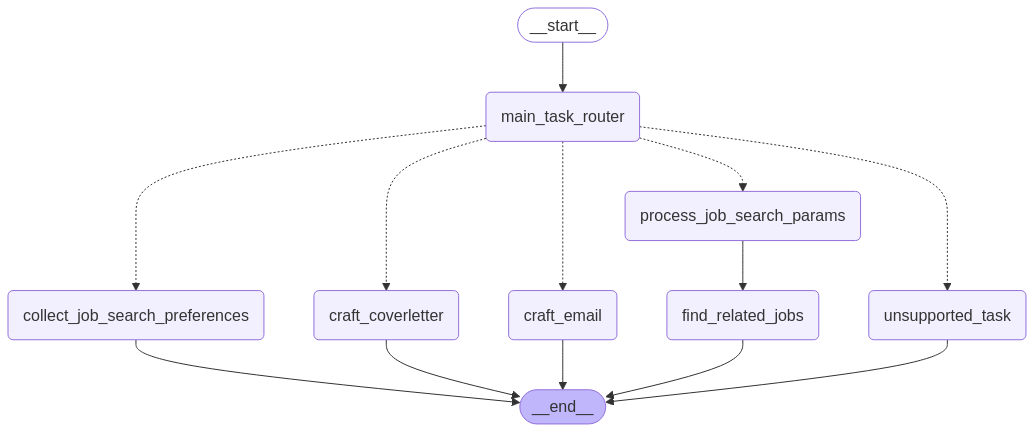
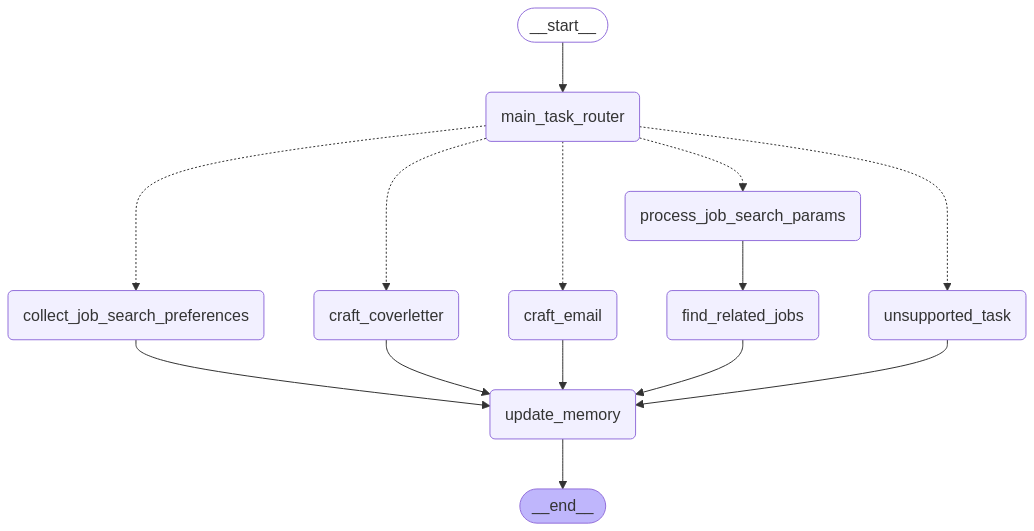
Add clean-up for PR

diff --git a/huntmate_core.py b/huntmate_core.py
@@ -21,12 +21,12 @@ from models import JobMatch, Route, State, JobSearchParams, JobUserMention
 # TODO: make suggestions on how to improve the resume based on the job description
 # TODO: if the llm model is not correct prompt the user to provide the correct model name
 # TODO: is there a way around this pydantic/json formatting for open-source llms? 
-# TODO: Add logo and improve the UI
-# TODO: find a way around project setup for users with no experience in python
+# TODO: find a way around project setup for users with no experience in python > Docker maybe? 
 # TODO: Add new chat button to reset the memory
-# TODO: Add prompts for craft email, cover letter.. 
+# TODO: Add prompts for craft email. 
 # TODO: improve the memory from csv file to a better solution
-
+# TODO: change unsupported task to a more user-friendly message or just let openai handle it?
+# TODO: you can have a place that the user can upload their resume!
 
 
 # The main class for the HuntMate application
@@ -135,23 +135,19 @@ class HuntMate:
         else:
             try: 
                 job_id = result.description.split("https://www.linkedin.com/jobs/view/")[1].split(")")[0]
-                result = self.linkedin_tool.get_job_info(job_id)
-                if result :
-                    return result
+                complete_info = self.linkedin_tool.get_job_info(job_id)
+                if complete_info:
+                    return complete_info
                 else: 
-                    return state["user_input"]
+                    return result.description
             except:
                 return state["user_input"]
 
         
     def craft_coverletter(self, state: State) -> dict:
         """Generate a cover letter based on user input and memory"""
-        # TODO: connect to the find exact job function and give the job info here!
         job_description = self.find_exact_job(state)
         memory_personal = self.load_personal_memory(state)
-        print(">>>>>>>>>>>>>>>")
-        print(job_description)
-        print(">>>>>>>>>>>>>>>")
         response = completion(
             model=self.model_name,
             messages=craft_coverletter_prompt(state["user_input"], memory_personal, job_description),
@@ -208,7 +204,7 @@ class HuntMate:
         print(type(state["job_search_params"]))
         while counter < state["job_search_params"].limit + 1 and  i < len(found_jobs): 
             print("Processing job: ", i)
-            messages = [check_job_match(state["job_search_params"], job["title"], job["company"], job["location"], job["job_description"], self.load_personal_memory(state)) for job in found_jobs[i:i+batch_size]]
+            messages = [check_job_match(state["job_search_params"], job["title"], job["company"], job["job_description"], self.load_personal_memory(state)) for job in found_jobs[i:i+batch_size]]
             responses = batch_completion(
                 model= self.model_name,
                 messages=messages,
@@ -242,9 +238,7 @@ class HuntMate:
     
     def update_memory(self, state: State) -> None:
         """Save memory and chat history to CSV files."""
-        # Save important information about the user preferences to user_info_memory.csv
         user_info_memory_path = "db/user_info_memory.csv"
-
         if len(state.get("information_to_memorize", [])) > 0:
             # Load existing data if the file exists
             if os.path.exists(user_info_memory_path):
@@ -269,6 +263,12 @@ class HuntMate:
         updated_data = pd.concat([existing_data, new_data], ignore_index=True)
         updated_data.to_csv(chat_history_path, index=False)
 
+    def save_diagram(self, path) -> None:
+        with open(path, "wb") as f:
+            f.write(
+            self.workflow.get_graph().draw_mermaid_png(
+                draw_method=MermaidDrawMethod.API,
+        ))
             
     def create_workflow(self) -> None:
         """Create the workflow for the HuntMate application"""
@@ -307,12 +307,8 @@ class HuntMate:
         self.workflow.add_edge("update_memory", END)
 
         self.workflow = self.workflow.compile()   
-        # with open("diagram.png", "wb") as f:
-        #     f.write(
-        #     self.workflow.get_graph().draw_mermaid_png(
-        #         draw_method=MermaidDrawMethod.API,
-        #     )
-        #     )
+
+        # self.save_diagram("./images/diagram.png")
         return 
 
     def run(self, user_input: str, skip_router: bool = True, filled_job_form: bool = False) -> str:

diff --git a/app.py b/app.py
@@ -5,6 +5,8 @@ import os
 from huntmate_core import HuntMate
 
 
+st.set_page_config(layout="wide")
+
 # Initialize chat history
 if "messages" not in st.session_state:
     st.session_state.messages = []
@@ -26,10 +28,19 @@ if "chatbot" not in st.session_state:
 
 chatbot = st.session_state.chatbot
 
+logo_col, spacer_col, main_col = st.columns([1, 0.5,  5])
 
-st.title("Welcome to HuntMate!")
-st.write("I am your companion in job hunting! :)")
-st.write("You can start by saying 'Find me a job' or ask me anything about job search.")
+with logo_col:
+    st.image("images/logo.png", use_container_width=True)
+
+with spacer_col:
+    # empty spacer, no content
+    pass
+
+with main_col:
+    st.title("Welcome to HuntMate!")
+    st.write("I am your companion in job hunting! :)")
+    st.write("You can start by saying 'Find me a job' or ask me anything about job search.")
 
 # Display chat messages from history on app rerun
 for message in st.session_state.messages:
@@ -71,10 +82,10 @@ if st.session_state.show_job_form:
         )
         
         job_keywords = st.text_input("Please provide your preference for job keywords:", 
-                                     value=", ".join(getattr(st.session_state.form_prefill, "job_keywords", [])))
+                                    value=", ".join(getattr(st.session_state.form_prefill, "job_keywords", [])))
         
         other_preferences = st.text_area("Please describe any other preferences you have for the job search:",
-                                         value= getattr(st.session_state.form_prefill, "extra_preferences", ""))
+                                        value= getattr(st.session_state.form_prefill, "extra_preferences", ""))
         
         submit_button = st.form_submit_button("Submit")
         

diff --git a/prompts.py b/prompts.py
@@ -33,6 +33,7 @@ def fill_job_preferences(user_input) -> List[dict]:
 
                 - **Extra Preferences:**  
                     - Any additional details provided by the user should be stored in the `extra_preferences` field.
+                    - Do not include non important details such as "User is looking for a job.", we already know that!
                     
                     
                 ### Example:
@@ -61,14 +62,7 @@ def fill_job_preferences(user_input) -> List[dict]:
     return messages
 
 
-def check_job_match(user_input: JobSearchParams, title:str, company:str, location:str, job_description:str, memory_info: List[str]) -> List[dict]:
-    # user_location_pref = user_input.locations
-    # if user_input.work_mode == [] or len(user_input.work_mode) == 3:
-    #     workmode = "hybrid, remote, or on-site, all works."
-    # else:
-    #     workmode = "Only the following work modes are acceptable: "
-    #     for i in user_input.work_mode:
-    #         workmode += i.name + " "
+def check_job_match(user_input: JobSearchParams, title:str, company:str, job_description:str, memory_info: List[str]) -> List[dict]:
     if user_input.experience == []:
         experience = "all experience levels are acceptable."
     else:
